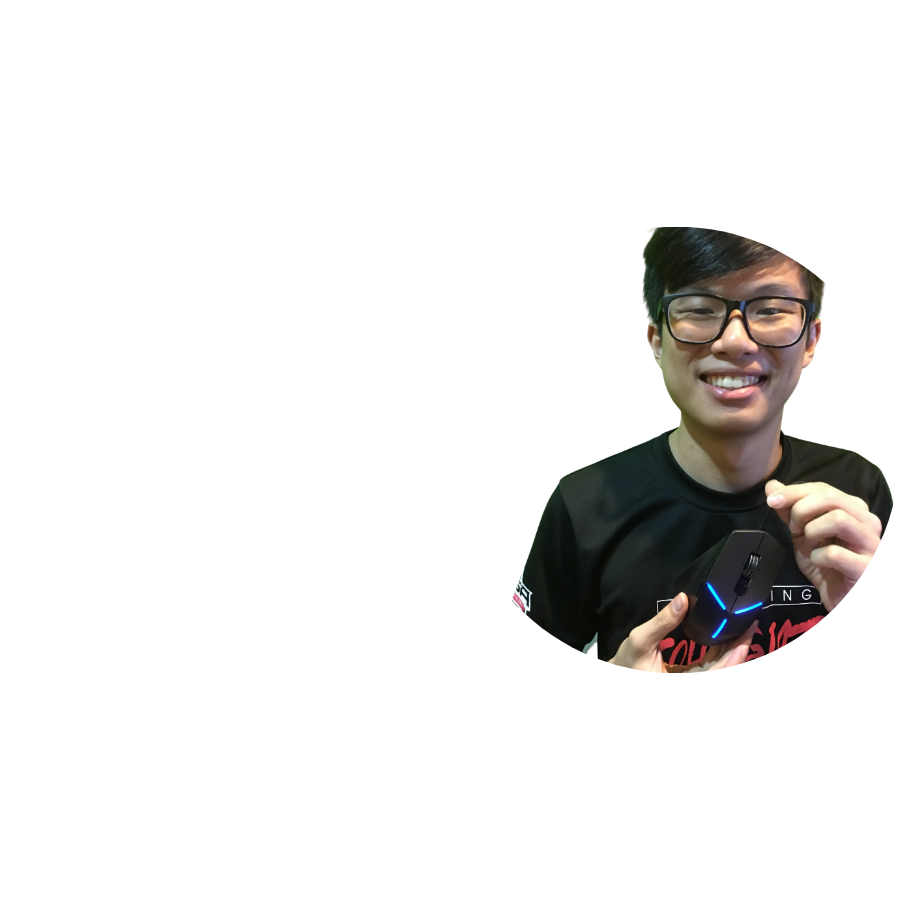
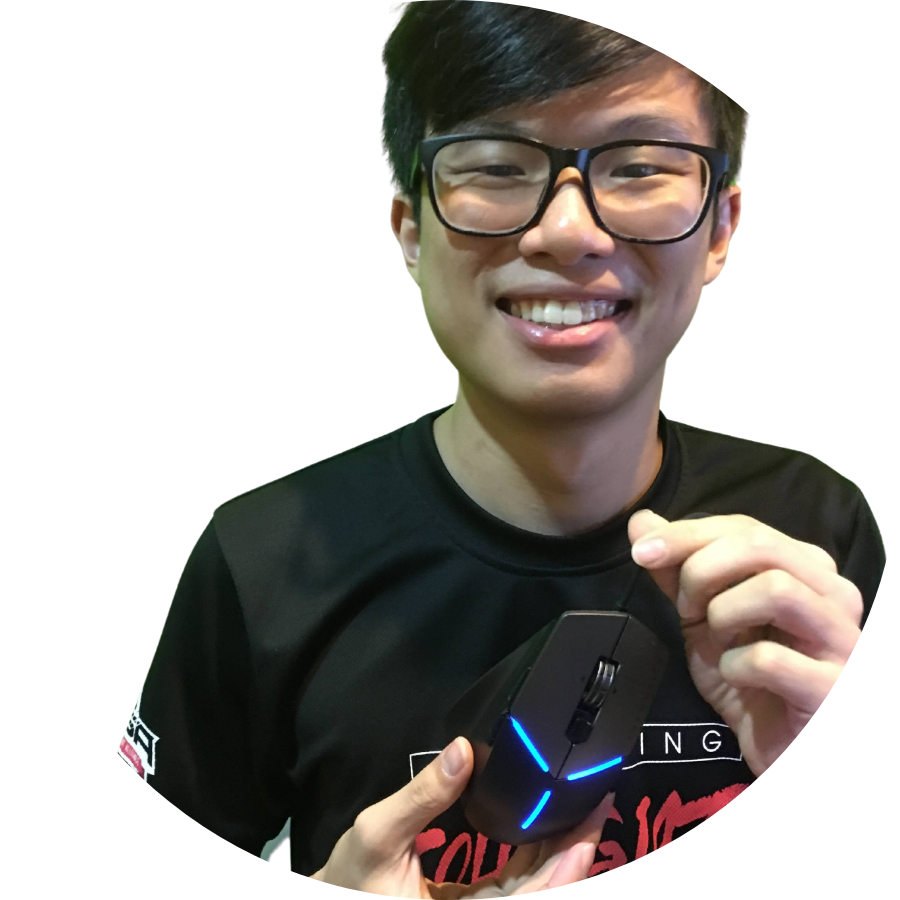
fix: picture and text in hero section sizes

diff --git a/index.html b/index.html
@@ -54,7 +54,7 @@
       <div class="container">
         <div class="row">
           <!--text-->
-          <div class="col-md-6">
+          <div class="col-7">
             <div class="text">
               Hi, I'm Fylia. I code with the help of my cats. Explore my code with care.
             </div>
@@ -62,9 +62,12 @@
               <a href="#" class="btn btn-primary">Project</a>
               <a href="#" class="btn btn-outline-secondary">Button</a>
             </div>
-            <!--image-->
-            <div class="col-md-6">  
-              <img src="assests/me.png" alt="image" class="w-75 h-auto" >        
+          </div>
+          <!--empty column-->
+          <div class="col-1"></div>
+          <!--image-->
+          <div class="col-4">  
+            <img src="assests/me.png" id="heroimg" alt="image" class="img-fluid" >
           </div>
         </div>
       </div>

diff --git a/style.css b/style.css
@@ -76,7 +76,7 @@ section.home {
     overflow: hidden;
 }
 
-section img {
+section.home img {
     position: absolute;
     top: 0;
     left: 0;
@@ -140,8 +140,8 @@ section.hero {
 }
 
 section.hero .text {
-    font-weight: 800;
-    font-size: 2rem;
+    font-weight: 700;
+    font-size: 48px;
     line-height: 73px;
     color: #fff;
 }
@@ -153,4 +153,14 @@ section.hero .text {
 .buttons1 .btn {
     font-size: 16px;
     font-weight: bold;
+    line-height: 24px;
 } 
+
+/* section.hero .btn-primary {
+    background-color: #2b1055;
+    outline: #2b1055;
+} */
+
+section.hero #heroimg {
+    height: 450px;
+}
